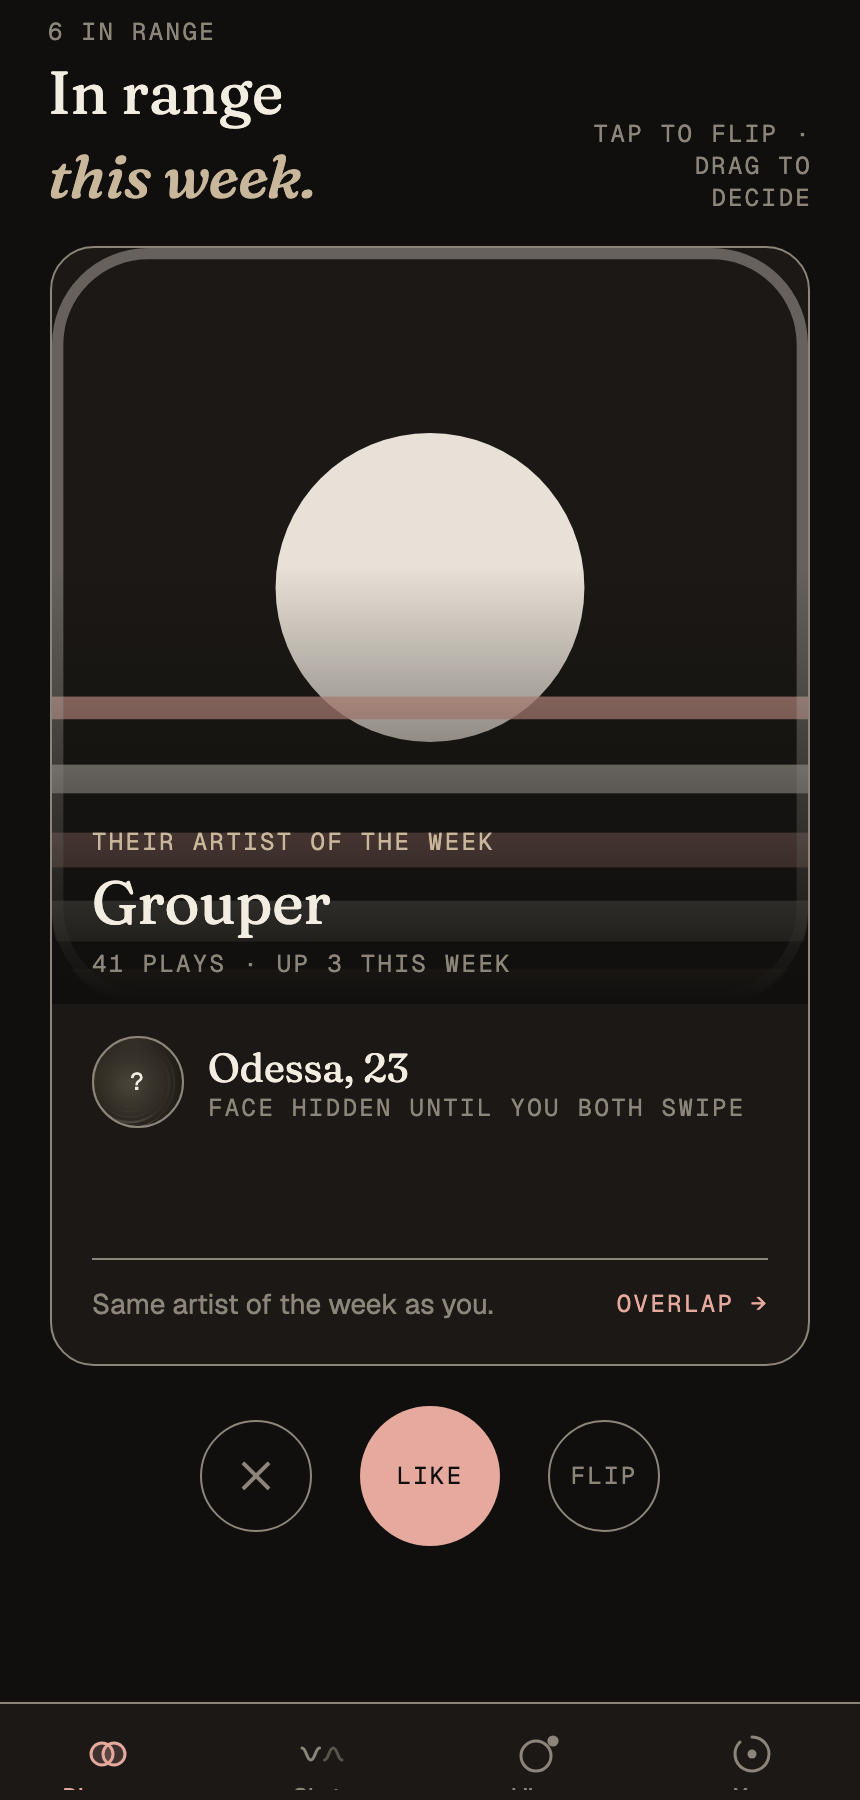
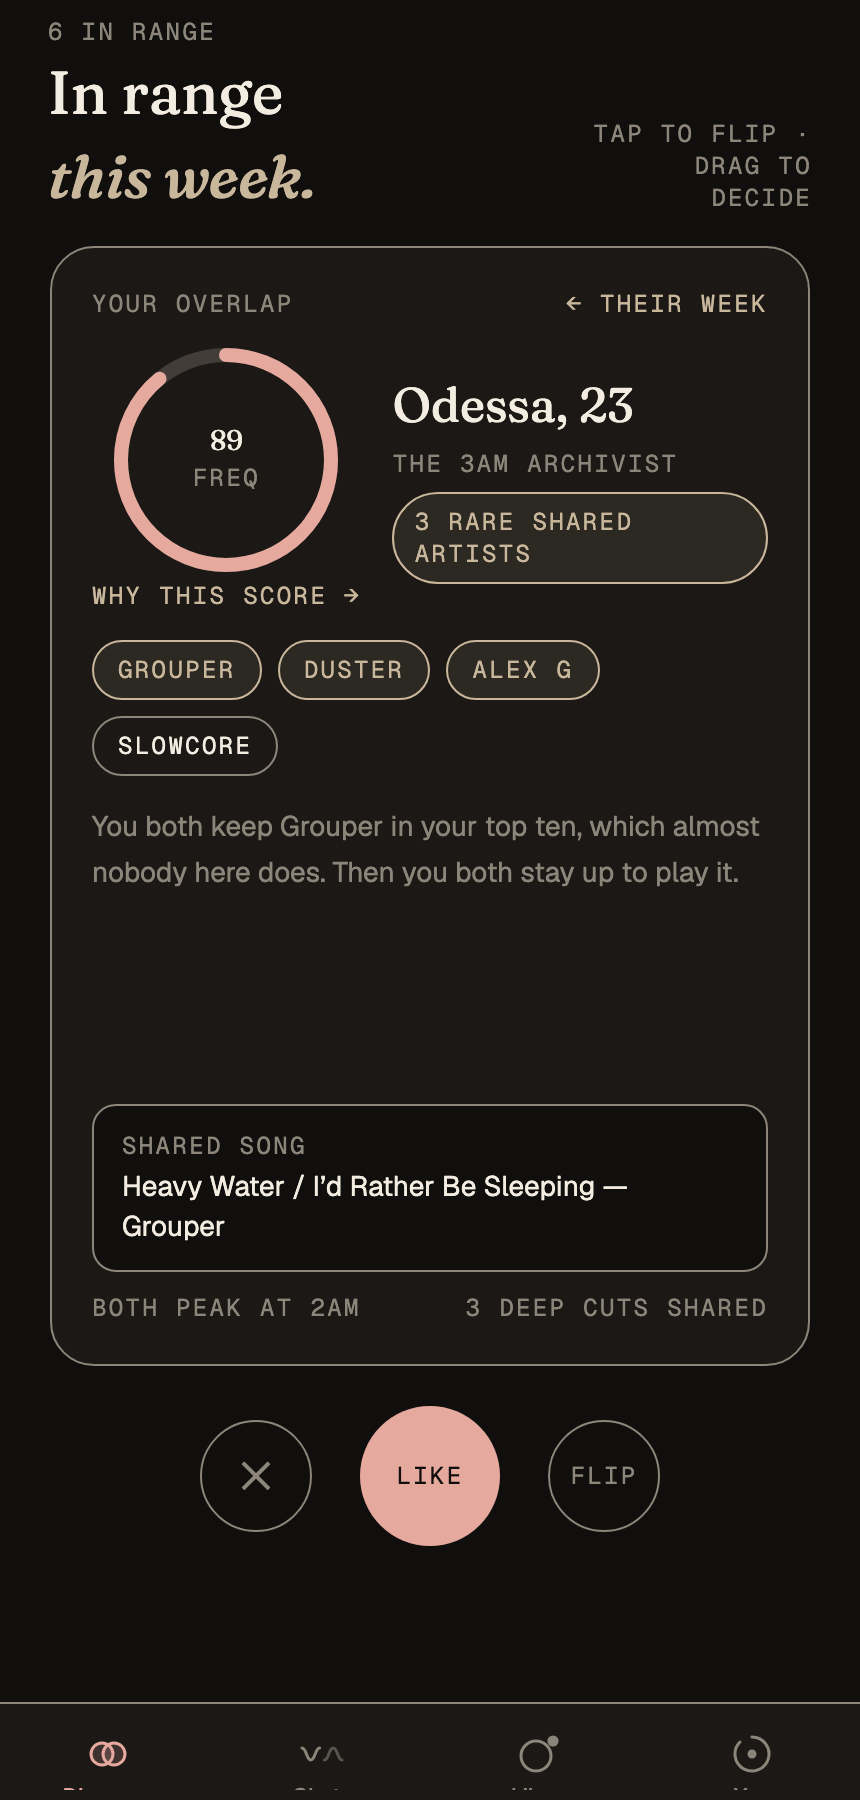
Fix the overlap screenshot, and make the capture script fail loudly
The README's "your overlap" column was showing the sealed deck twice:
02-overlap.png was byte-identical to 01-sealed-deck.png. The capture script
tapped the FLIP label, the press never landed on the Pressable, and the
screenshot that followed simply captured the unchanged screen — so a silent
no-op shipped as a real image.

Two changes:

- Flip by tapping the card itself, which is the affordance the card
  advertises ("tap to flip"), aimed above the action row so it cannot hit
  like/pass. The replacement shot is the strongest one in the set: the 89
  dial, the rare shared artists, the reason line, "both peak at 2am".
- `shot()` now hashes every frame and throws if one is byte-identical to an
  earlier one. A tap that does nothing is now a failed run rather than a
  plausible-looking duplicate.

Caught by fetching the committed images back from raw.githubusercontent.com
and noticing two had identical byte counts. All five are now distinct, and
all five resolve over HTTPS as valid PNGs.

diff --git a/scripts/capture-screenshots.js b/scripts/capture-screenshots.js
@@ -1,4 +1,6 @@
 const { chromium } = require('playwright');
+const crypto = require('crypto');
+const fs = require('fs');
 const path = require('path');
 
 const URL = 'https://freq-sand.vercel.app';
@@ -26,9 +28,30 @@ async function fillVisible(page, placeholder, value) {
   await input.fill(value);
 }
 
+const hashes = new Map();
+
+/**
+ * Screenshot, and refuse to produce two identical frames.
+ *
+ * A tap that silently does nothing — the wrong node, an animation that hasn't
+ * settled — produces a byte-identical duplicate of the previous shot rather
+ * than an error, which is exactly how a "sealed deck" image once shipped in
+ * the README's "your overlap" column. Comparing digests turns that class of
+ * failure into a loud one.
+ */
 async function shot(page, name) {
   const file = path.join(OUT, `${name}.png`);
   await page.screenshot({ path: file });
+
+  const digest = crypto.createHash('md5').update(fs.readFileSync(file)).digest('hex');
+  const clash = [...hashes.entries()].find(([, d]) => d === digest);
+  if (clash) {
+    throw new Error(
+      `${name}.png is byte-identical to ${clash[0]}.png — the interaction before it did nothing.`
+    );
+  }
+  hashes.set(name, digest);
+
   console.log('  saved', file);
 }
 
@@ -85,8 +108,12 @@ async function shot(page, name) {
   await shot(page, '04-deck-sealed');
 
   console.log('overlap face…');
-  await tapText(page, 'FLIP');
-  await wait(1500);
+  // Tap the card itself rather than the FLIP button — that is the affordance
+  // the card advertises ("tap to flip"), and the button's label is a text node
+  // that does not always carry the press. Aim above the action row so the tap
+  // cannot land on like/pass.
+  await page.mouse.click(W / 2, H * 0.42);
+  await wait(2500);
   await shot(page, '05-deck-overlap');
 
   console.log('like → mutual reveal…');
